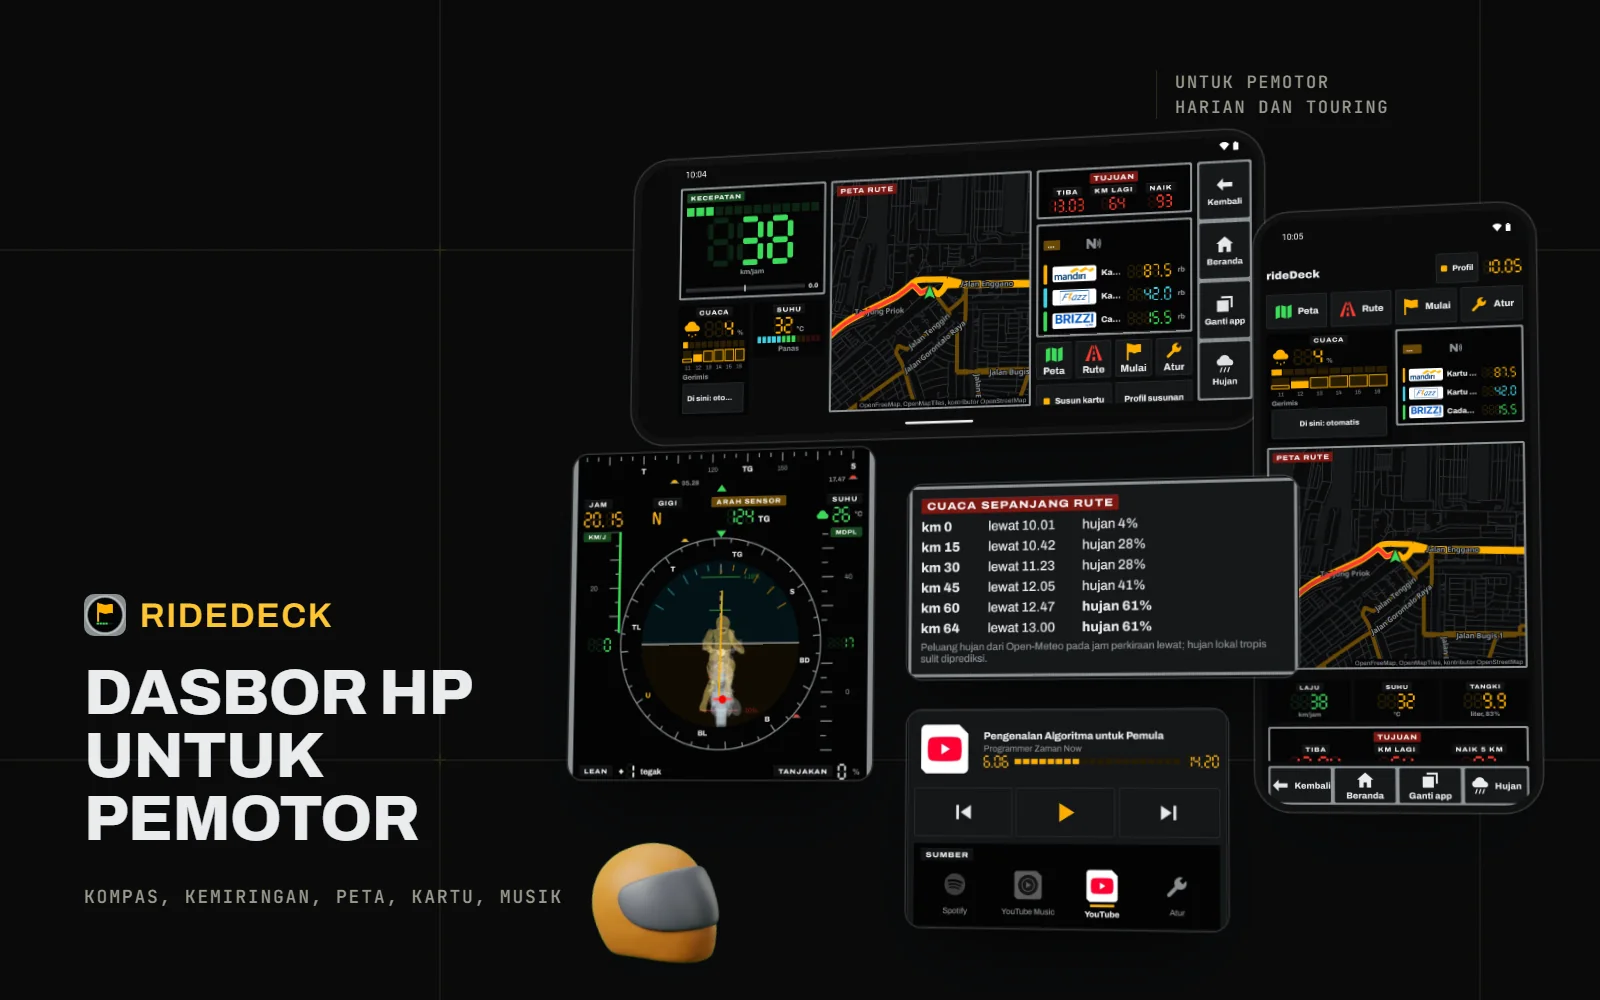
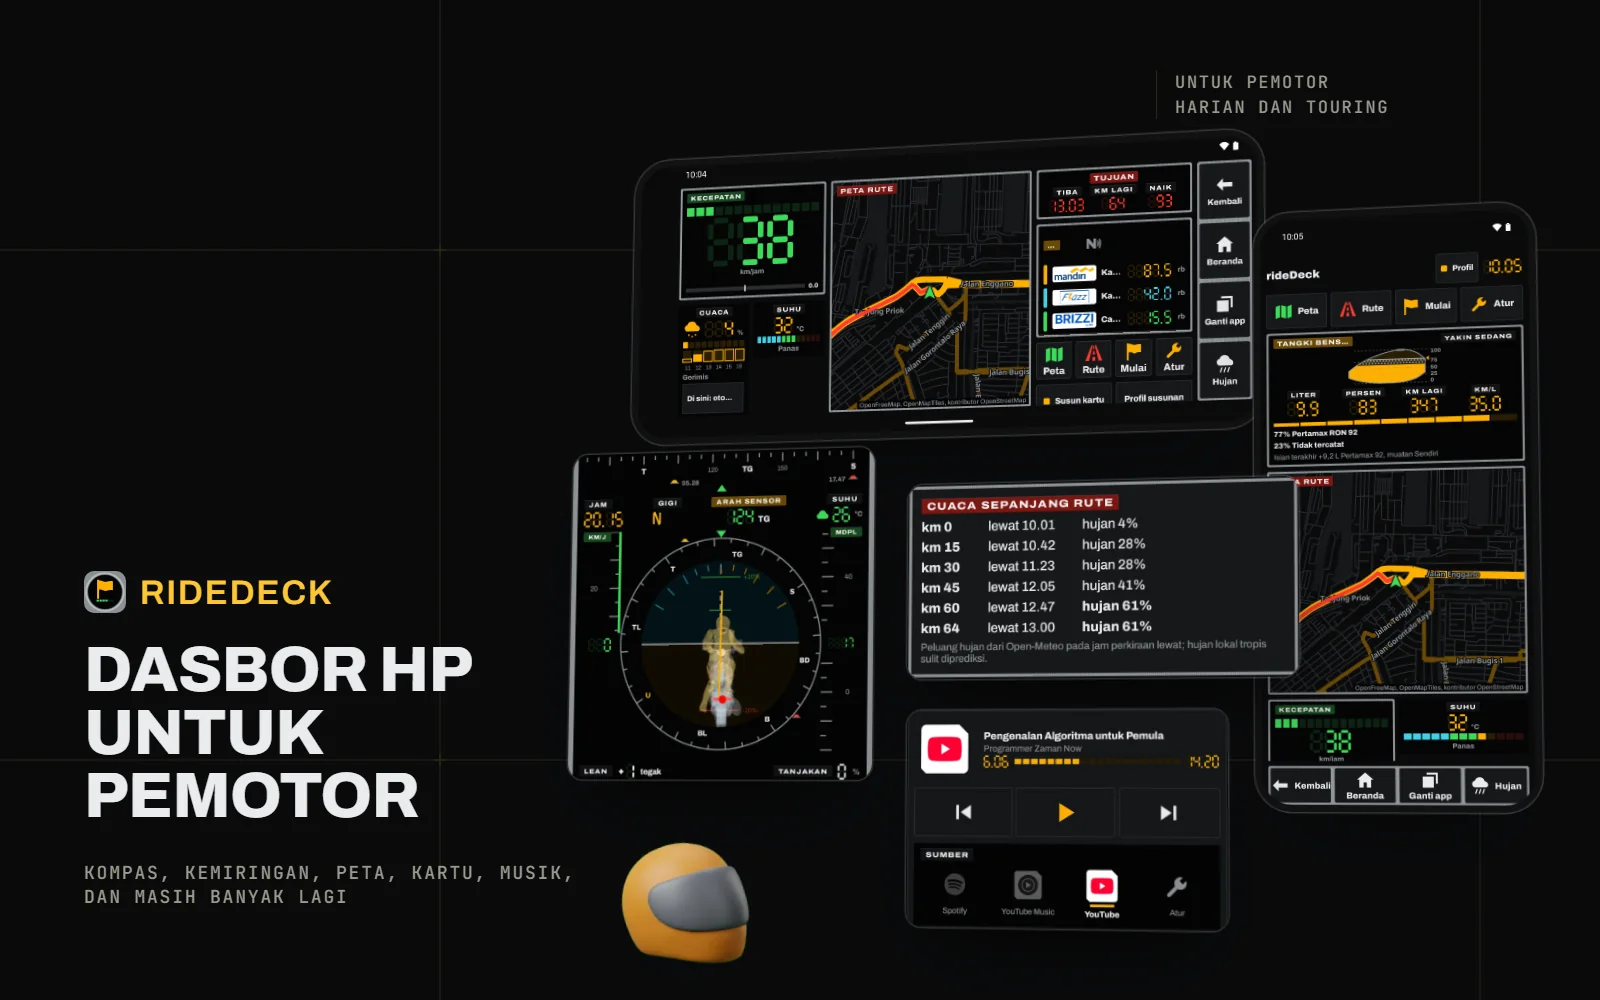
fix(work): ponsel portrait RideDeck menampilkan estimasi bensin
Cuaca dan kartu e-money sudah tampil di ponsel landscape, jadi ponsel portrait memakai Tangki bensin supaya fiturnya lebih beragam. Baris dukung ditambah "dan masih banyak lagi".

diff --git a/src/lib/portfolio/projects.ts b/src/lib/portfolio/projects.ts
@@ -1153,7 +1153,7 @@ export const PORTFOLIO: PortfolioEntry[] = [
       'Launcher Android untuk HP di dudukan stang: navigasi, musik, telepon, dan app touring dalam satu dasbor instrumen, dengan tombol pulang yang selalu ada.',
     cover: {
       file: 'ridedeck-sampul.v5.webp',
-      alt: 'Papan RideDeck dengan data contoh: Dasbor HP untuk pemotor, kompas, kemiringan, peta, kartu, musik, untuk pemotor harian dan touring. Dasbor landscape dan portrait dengan peta rute Tanjung Priok ke Kebun Raya Bogor, kecepatan, cuaca, dan saldo kartu, lalu kokpit dengan kompas dan motor 3D, cuaca sepanjang rute dari 4 sampai 61 persen, dan pemutar musik, dengan helm',
+      alt: 'Papan RideDeck dengan data contoh: Dasbor HP untuk pemotor, kompas, kemiringan, peta, kartu, musik, dan masih banyak lagi, untuk pemotor harian dan touring. Dasbor landscape dengan kecepatan, cuaca, tujuan, dan saldo kartu, dasbor portrait dengan estimasi bensin, keduanya memetakan rute Tanjung Priok ke Kebun Raya Bogor, lalu kokpit dengan kompas dan motor 3D, cuaca sepanjang rute dari 4 sampai 61 persen, dan pemutar musik, dengan helm',
       focalX: 1,
     },
     summary: {

diff --git a/docs/aset/PROVENANCE-gambar.md b/docs/aset/PROVENANCE-gambar.md
@@ -96,8 +96,10 @@ perakit `_alat/sampul/rakit-papan5.mts`. Ornamen sama dengan papan berlapis (Flo
 - RideDeck: dua ponsel dari emulator (AVD `pova6`, build debug x86_64), satu perjalanan contoh
   Stasiun Tanjung Priok ke Kebun Raya Bogor dengan jam emulator 15 Nov 2026 10.00 dan tema Malam.
   Rute dari Valhalla publik, cuaca sepanjang rute dan cuaca setempat dari Open-Meteo saat itu
-  (prakiraan asli untuk jam tersebut), kartu e-money dan bensin fiktif. Lencana merah "NFC tidak
-  ada" (emulator tanpa NFC) ditutup warna latar kartu; di HP ber-NFC lencana itu tidak tampil.
+  (prakiraan asli untuk jam tersebut), kartu e-money dan bensin fiktif. Ponsel portrait memakai
+  susunan tanpa Cuaca dan Kartu e-money, dengan Tangki bensin (estimasi isi, km lagi, campuran
+  bensin) di atas peta. Di ponsel landscape, lencana merah "NFC tidak ada" (emulator tanpa NFC)
+  ditutup warna latar kartu; di HP ber-NFC lencana itu tidak tampil.
   Kokpit (kompas dengan motor 3D) dan kartu musik adalah potongan `ridedeck-kokpit.v1` dan
   `ridedeck-musik.v1` dari HP sungguhan, yang sudah tayang di halaman RideDeck; Filament 3D tidak
   jalan di renderer emulator. Judul video di kartu musik milik kreator lain di YouTube, tanpa
